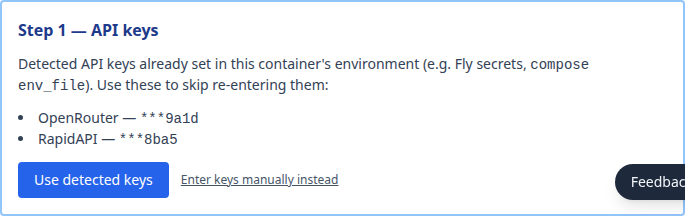
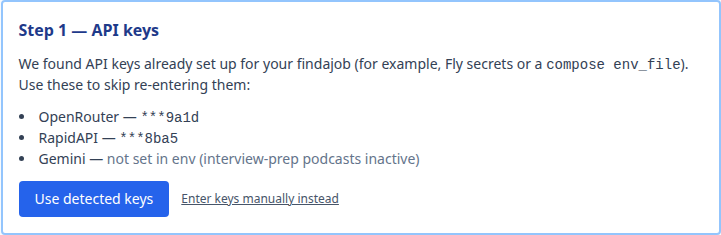
docs(v2 P5.1): regenerate Fly onboarding screenshots + add /stats usage guide (#887)
Regenerate every findajob-app onboarding screenshot in start-here-fly.md and
install-fly.md against the live UI, and correct the prose to match:

- document the new Confirm-your-timezone step (#993) and the Gemini API-key
  option, both added after the originals were shot
- "Captured N of 10 required blocks" counter replaces the stale "progress bar /
  5 of 10 blocks emitted" framing; API-keys humanized copy; blue (not green) button
- post-Finalize chain (timezone -> spend-ceiling -> Gmail -> connections) and the
  "You're set up. Your first triage hasn't run yet." first-run banner now accurate
- interview-resume caption corrected: answers save as you go and reloading
  resumes; there is no "Resume your interview" index button
- README hero caption matches the regenerated demo board; one-click-prep claim
  reflects the #691 briefing-first gate; reject-reason examples use shipped defaults
- prune two unreferenced Fly screenshots (09-settings-github-connect, 10-settings-full)
  and wire the sign-in shot into the flow

Add docs/usage/stats.md ("Reading the Stats pages") documenting all seven /stats
dashboards with screenshots, wired into docs._PAGES (slug usage/stats) and the
container smoke slug-loop, cross-linked from tuning.md and usage.md.

This covers the findajob-app half of #916. The Fly.io-platform screenshots
(Fly's own dashboard, install-fly-web/) need an authed Fly session this change
can't drive, so #916 stays open for that separate operator-driven pass.

Closes #887

diff --git a/src/findajob/web/routes/docs.py b/src/findajob/web/routes/docs.py
@@ -24,6 +24,7 @@ _PAGES: dict[str, str] = {
     # Daily use
     "usage": "usage.md",
     "usage/expanding-sources": "usage/expanding-sources.md",
+    "usage/stats": "usage/stats.md",
     "tuning": "tuning.md",
     "troubleshooting": "troubleshooting.md",
     "updating": "updating.md",

diff --git a/CHANGELOG.md b/CHANGELOG.md
@@ -12,6 +12,7 @@ changes may land in minor version bumps; patch releases are bugfix-only.
 
 ### Added
 
+- **Stats-pages usage guide** (#887): a new `docs/usage/stats.md` ("Reading the Stats pages") gives a screenshot tour of all seven `/stats/` dashboards — Funnel, Feedback, Scoring, Rejections, Throughput, Effectiveness, Recall Audit — covering what each page shows, the transitions-vs-snapshots and small-sample-`—` conventions, and the three distinct rejection cuts (Feedback = your rejections, Rejections = all-time incl. company "Not Selected", Effectiveness = a "Not Selected" counts as a response). Wired into the `/docs/` index under Usage (slug `usage/stats`, breadcrumbs free via the `usage/` prefix), added to the container smoke slug-loop, and cross-linked from `tuning.md` (the *acting* lens, which keeps its tuning-action notes) and `usage.md`'s daily loop. Docs-only; no schema change.
 - **Config-driven denylist for the critique recurring-themes surface** (#995): the recurring-themes section of the critique aggregator report (`scripts/critique_review.py`) counts which unanchored critique words recur across the most companies — but the recruiter critic's own *artifact-frame* vocabulary (the words it uses to name the document it critiques: `cover`, `letter`, `resume`, `opener`, `quote`, `summary`, `bullet`) recurs across *more* companies than the genuinely useful themes (`hearsay`, `unverifiable`, `connective`), so the corpus-scaled frequency floor (#932/#951) structurally can't separate signal from noise — raising the floor drops signal before noise, lowering it floods with more. A new gitignored `config/critique_theme_stopwords.yaml` denylist (edited via `/config/`, hot-reloaded on the next run) drops those words from the surface. It *unions* onto a non-empty field-neutral default of the seven artifact-frame words above — unlike the *replace* semantics of `title_signal_keywords.yaml` — so the surface is cleaner out of the box and an operator who adds their own corpus-specific noise words (e.g. role words like `director` / `former` that are noise on one corpus but could be signal on another) never silently loses the universal filters and reintroduces the noise. The frequency floor is unchanged and still does its job; this is the orthogonal vocabulary filter it structurally couldn't provide. **No `migration-required`** — optional config with a working code default; no schema or mandatory config change.
 - **Persistent feed-URL 404 health-check** (#983): the daily health-check ntfy now flags ATS feed-URL slugs that 404'd during the last triage — a stale Greenhouse / Lever / Ashby slug (e.g. a company that took down its careers board) that the source-level "silent feed failure" check can't see, because the source keeps producing jobs from its *other* slugs while that one company silently drops out of the funnel. It reads the `*_fetch_skip` outcomes triage already logged to `pipeline.jsonl` (deduped by `ats/slug`, capped to the first five named with the true total in the count) rather than re-probing live — detection over time, no extra network calls — complementing the live-probe of the onboarding (#984) and Verify-button (#985) paths. Flag-only by design: auto-correcting a slug would risk writing a *different* dead slug into operator config, worse than an honest 404 — fix the named slug in `config/feed_urls.txt` via `/config/` and re-confirm at `/settings/feed-urls/`. Surfaced via #856. No schema change.
 - **In-app "update available" banner** (#1016): the dashboard now shows a dismissible banner when a newer findajob release exists on GitHub — `vX → vY`, a CHANGELOG "what's new" link, and a per-substrate update hint (Fly → redeploy from the dashboard; Docker → `docker compose pull && up -d`, or Watchtower if you run it). The check compares the running CHANGELOG version against GitHub's `releases/latest` (anonymous, tuple-compared), caches in-memory ~daily, refreshes after the response so it never blocks page render, and fails open (no banner if the check can't resolve). Dismissal is version-keyed, so the next release re-surfaces it. No new env var; no schema change.
@@ -23,6 +24,7 @@ changes may land in minor version bumps; patch releases are bugfix-only.
 ### Changed
 
 - **Docker runtime install migrated to a `uv sync` builder stage** (#997): the image build switched from a throwaway `deps` stage (`uv export --locked --no-dev --no-emit-project` → a hashed `requirements.txt`, then a runtime `pip install --require-hashes --break-system-packages` + `pip install -e . --no-deps`) to a `uv sync --locked --no-dev` builder stage that produces a self-contained `/app/.venv`, `COPY`ed into the runtime image with `/app/.venv/bin` fronted on `PATH`. `pip` and `--break-system-packages` are gone from the runtime stage; `uv` stays builder-only. findajob remains **editable** (uv.lock marks it `editable`) and the runtime keeps `COPY src/ /app/src/` — `src/findajob` ships load-bearing non-Python package data (web templates, `.sql` migrations, static assets, the staging persona fixture) with no `package-data`/`MANIFEST.in`, so a non-editable wheel would silently drop them and 500 uvicorn. Hash integrity is preserved: `uv sync --locked` verifies every distribution against uv.lock's per-package sha256 (the lockfile is now the hash source the exported `requirements.txt` used to be) and fails the build on lock/pyproject drift. `UV_PYTHON_DOWNLOADS=0` plus an identical `python:3.12-slim-bookworm` base in both stages keeps the COPYed venv's interpreter home valid, and the builder stays a bare `FROM` (not `--platform=$BUILDPLATFORM`) so the multi-arch `linux/arm64` leg installs target-arch wheels. The bare `python3` that the entrypoint and supercronic cron commands run resolves to the venv interpreter via the image `PATH` (gosu and supercronic both inherit it). Out-of-container `fly ssh console "python …"` invocations — the deploy auth-gate verifiers in `ops/fly-deploy.sh` and the CI auto-deploy `ops/ci-fly-deploy.sh` (#914), plus their doc copies (install/update/operations) — now call the venv interpreter by absolute path `/app/.venv/bin/python`, since a `fly ssh` session may not inherit the image `PATH` the way `docker exec` does; `docker compose exec … python` stays bare (docker exec inherits the image env). Follow-up to #978 (which added the `[build-system]` this builds on). **No `migration-required`** — same image, same runtime contract (bare `python3` → findajob, `JSP_BASE=/app`, `EXPOSE 8090`, entrypoint, CMD all unchanged); operators just `docker compose pull` / redeploy.
+- **Fly onboarding docs + screenshots refreshed to current UI** (#916): regenerated every findajob-app screenshot in `start-here-fly.md` / `install-fly.md` against the live onboarding flow and corrected the prose to match. The walkthroughs now document the **Confirm-your-timezone** step (#993) and the **Gemini** API-key option that both landed after the originals were shot; the API-keys screen's humanized copy and the *"Captured N of 10 required blocks"* counter replace the old "progress bar / 5 of 10 blocks emitted" framing; the post-Finalize chain (timezone → spend-ceiling → Gmail → connections) and the *"You're set up. Your first triage hasn't run yet."* first-run banner are now accurate. The README hero caption matches the regenerated demo board, the one-click-prep claim reflects the #691 briefing-first gate (flag → briefing, then a second pass for resume/cover/outreach), and the reject-reason examples use the shipped default vocabulary. Two unreferenced Fly-dashboard screenshots (`09-settings-github-connect`, `10-settings-full`) were pruned and the sign-in shot wired into the flow. Docs-only. (The Fly.io-*platform* screenshots — Fly's own dashboard — are pending separate operator verification; they require an authed Fly session this change couldn't drive.)
 - **PII-scan CI is now active** (#1039): the `PII_PATTERNS_REGEX` repository secret is populated from the local pre-commit `PATTERNS` array, so `.github/workflows/pii-scan.yml` scans each PR diff against the pattern list instead of logging "secret not set" and passing — until now the per-clone local hook was the only active guard. `docs/operations/config-reference.md` (Pre-commit PII hook → CI-side defense) now documents that an operator may keep additional private patterns — kept operator-side and intentionally **not** enumerated in tracked docs, mirroring the `<operator-domain>` / `<deployment-host>` placeholder convention — in **both** the local `PATTERNS` array and the secret, so they're caught per-clone *and* in CI. **No `migration-required`** — repository secret + docs only; no schema or runtime change.
 - **Feed-URL probe no longer downloads the response body** (#1025): the shared `findajob.fetchers.feed_probe` helper classifies a Greenhouse / Ashby / Lever board as live / dead / unreachable from the HTTP status code alone, but it was downloading the full response body to read that code — and Greenhouse's boards endpoint ends in `?content=true`, so each probe pulled every open req's full HTML just to look at a status. The probe now passes `stream=True` to `requests.get` and closes the response after reading `status_code`, so the body is never fetched — less bandwidth, and one fewer way for a large healthy board to drift past the 8s per-feed timeout into a false `unreachable`. Behavior is identical: the live / dead / unreachable / unsupported classification, the plain-language reasons, and the `company_name_ok` flag are unchanged, and the full `tests/test_feed_probe.py` suite still passes (with a new test pinning that the body is never read). Benefits every caller of the helper — onboarding feed-validation (#984) and the Verify-feed-URLs button (#985). **No `migration-required`** — internal performance change; no schema, config, or behavior change.
 - **Normalized Anthropic model-ID slugs to OpenRouter's canonical dot-form across role configs** (#1037): the `model:` lines in `config/roles/*.md` were written three ways — OpenRouter's dot-form (`claude-sonnet-4.6`), the dash-form (`claude-sonnet-4-6`), and (in the six `loose_ends_*` roles) the dash-form with no `openrouter:` prefix at all. All ten divergent roles are now on the canonical `openrouter:anthropic/claude-<x>.<y>` form, matching the `config/model_pricing.yaml` keys and the CLAUDE.md per-role table (both already dot-form). No behavior change: findajob routes exclusively through OpenRouter, which aliases the dash-form to the dot-form, and `findajob.llm.openrouter.complete()` strips the `openrouter:` prefix before the request — so every prior form already resolved to the same billed call (confirmed in production `cost_log`, which shows both forms succeeding). The cleanup closes a latent cost-attribution seam: `cost_log.model` stores the slug as configured (dash, for those roles) while `model_pricing.yaml` keys on the dot-form, so a future lookup joining the two on the model string would silently miss for the dash-form roles. One hardcoded dash-form slug outside the role configs (`onboarding/interview_runner.py`'s `INTERVIEW_MODEL`) was out of scope here; it turned out to be dead code and is removed in #1040 (see Removed) rather than normalized. **No `migration-required`** — string normalization only; no schema, config-key, or runtime change.

diff --git a/docs/getting-started/start-here-fly.md b/docs/getting-started/start-here-fly.md
@@ -167,11 +167,11 @@ After signing in, the dashboard immediately redirects to `/onboarding/` because 
 
 ### Step 9. Confirm your API keys *(1 min)*
 
-The first onboarding screen detects the API keys you set in Step 6 and shows the last 4 characters of each as confirmation.
+The first onboarding screen detects the API keys you set in Step 6 and lists the last 4 characters of each as confirmation.
 
-![Step 1 of onboarding: detected OpenRouter and RapidAPI keys with last-4 confirmation and a Use detected keys button](install-fly/07-step1-api-keys.png)
+![Step 1 of onboarding: detected API keys (OpenRouter, RapidAPI, Gemini) with last-4 confirmation and a Use detected keys button](install-fly/07-step1-api-keys.png)
 
-**What you should see:** "Detected: OpenRouter key ending …xxxx, RapidAPI key ending …xxxx" with a green **Use detected keys** button.
+**What you should see:** a *"We found API keys already set up for your findajob"* heading with a bulleted list — `OpenRouter — ***xxxx`, `RapidAPI — ***xxxx`, and `Gemini — not set in env` (Google AI is optional; it only powers interview-prep podcasts, so leaving it unset is fine) — and a blue **Use detected keys** button.
 
 Click **Use detected keys** to advance.
 
@@ -185,27 +185,37 @@ This is the longest step by far — and the one where findajob learns who you ar
 2. The AI asks structured questions about your work history, target companies, skills, and preferences. **Answer as completely as you reasonably can** — more context here means better job matching later.
 3. When the interviewer asks for your resume, **paste it directly into the chat** (Word/PDF/plain text — copy from the source document, paste in).
 
-**Plan to sit through it in one session.** If you have to step away, you can close the tab and the `Resume your interview` button on the index page brings you back exactly where you left off:
+**Plan to sit through it in one session.** If you have to step away, you can close the tab — your answers are saved as you go, and reloading the interview page brings you back where you left off:
 
-![Resume the in-progress interview from where you left off](install-fly/01-interview-resume-prompt.png)
+![The interview saves your answers as you go — reload the page to resume where you left off](install-fly/01-interview-resume-prompt.png)
 
-As the interview progresses, a progress bar tracks the config blocks emitted so far:
+As the interview progresses, a counter chip near the top — *"Captured N of 10 required blocks"* — tracks how many of the required config blocks have been captured (most are written in a batch when the interview wraps up):
 
-![Halfway through the interview, 5 of 10 blocks emitted](install-fly/02-interview-progress-half.png)
+![findajob captures your answers into config files as the interview wraps up](install-fly/02-interview-progress-half.png)
 
-When all blocks are complete, a green **Finalize** button appears at the bottom of the chat:
+When all required blocks are captured, the chip turns green (*"All blocks captured — ready to finalize"*) and a green **Finalize** button appears at the bottom of the chat:
 
-![All groups emitted, Finalize button now visible](install-fly/03-interview-ready-to-finalize.png)
+![All required blocks captured — the green Finalize button appears](install-fly/03-interview-ready-to-finalize.png)
 
 Click **Finalize**. findajob writes your config files to disk and kicks off a one-time "company discovery" LLM run that drafts your initial target-company list.
 
-![Finalize click writes files and triggers initial company discovery](install-fly/04-interview-all-groups-emitted.png)
+![The Finalize box — click Finalize to write your config and run first-time company discovery](install-fly/04-interview-all-groups-emitted.png)
 
-**What you should see:** the page moves on to the spend-ceiling gate (next step).
+**What you should see:** the page moves on to confirm your timezone (next step), then the spend-ceiling gate. *(If any of your job-feed URLs look broken, a quick feed-check step appears first so you can fix them.)*
 
 **If something went wrong:** if the chat seems stuck (no LLM response for 30+ seconds), check `https://openrouter.ai/credits` — your balance may have run out. Top up and refresh the page; the conversation persists server-side.
 
-### Step 11. Set a monthly spend ceiling *(1 min, recommended)*
+### Step 11. Confirm your timezone *(30 sec)*
+
+findajob detects your timezone from your browser and asks you to confirm it. This drives when your daily triage runs and how times are shown on your board.
+
+![Confirm your timezone — browser-detected, changeable anytime at /settings/timezone/](install-fly/04b-timezone-confirm.png)
+
+**What you should see:** a **Confirm your timezone** screen with your browser's timezone pre-filled (e.g. `America/Los_Angeles`). Pick another from the dropdown if it's wrong, then click **Confirm and continue**. You can change it later at `/settings/timezone/`.
+
+> The timezone takes effect on the next app restart. After onboarding, the dashboard shows a **"Restart to apply your timezone"** banner until you restart (or until your next update applies it).
+
+### Step 12. Set a monthly spend ceiling *(1 min, recommended)*
 
 This is the single biggest cost-anxiety defuse in findajob — a hard cap on your monthly LLM spend.
 
@@ -217,7 +227,7 @@ This is the single biggest cost-anxiety defuse in findajob — a hard cap on you
 
 **If something went wrong:** if you skipped this and want to set one later, visit `/settings/spend-ceiling/` in your web UI any time.
 
-### Step 12. (Optional) Configure Gmail integration *(3 min)*
+### Step 13. (Optional) Configure Gmail integration *(3 min)*
 
 findajob can read your Gmail inbox to ingest LinkedIn / Indeed job-alert emails AND auto-detect ATS rejection emails.
 
@@ -225,11 +235,11 @@ findajob can read your Gmail inbox to ingest LinkedIn / Indeed job-alert emails 
 
 To wire it up: see [`gmail.md`](gmail.md) for the 2FA + Gmail app-password procedure. Paste the credentials into this form, click **Test connection**, and **Save**.
 
-**To skip:** click **Skip Gmail setup**. You can configure it later at `/config/gmail/`.
+**To skip:** click **Skip for now**. You can configure it later at `/config/gmail/`.
 
 **What you should see:** the page advances to the LinkedIn connections step.
 
-### Step 13. (Optional) Upload your LinkedIn Connections.csv *(2 min)*
+### Step 14. (Optional) Upload your LinkedIn Connections.csv *(2 min)*
 
 findajob uses your LinkedIn network to find people at companies that posted jobs you're applying to, and drafts outreach to them.
 
@@ -238,7 +248,7 @@ findajob uses your LinkedIn network to find people at companies that posted jobs
 1. In LinkedIn (on the web): **Settings → Data privacy → Get a copy of your data → Connections**. The CSV downloads after a few minutes.
 2. On this onboarding step, click **Choose file** and select the downloaded `Connections.csv`.
 
-**To skip:** click **Skip**. You can upload it later at `/onboarding/connections/`.
+**To skip:** click **Skip for now**. You can upload it later at `/settings/connections/`.
 
 **What you should see:** the page advances to the dashboard.
 
@@ -248,11 +258,11 @@ findajob uses your LinkedIn network to find people at companies that posted jobs
 
 ## Part D — Your first triage (5–60 minutes)
 
-### Step 14. Trigger your first triage *(5–60 min, mostly waiting)*
+### Step 15. Trigger your first triage *(5–60 min, mostly waiting)*
 
 You're now on the dashboard. The job table is empty — no jobs have been triaged yet.
 
-**What you should see:** a blue banner above the (empty) job table with text like *"Your first triage hasn't run yet — next scheduled run is at 00:00 (your timezone)"* and a prominent **Trigger triage now** button below it.
+**What you should see:** a banner above the (empty) job table — *"You're set up. Your first triage hasn't run yet."* — with a prominent **Trigger triage now** button.
 
 Click **Trigger triage now** to start the pipeline immediately instead of waiting until midnight.
 
@@ -268,7 +278,7 @@ Refresh `/board/` to see progress.
 
 **If something went wrong:** if the dashboard still shows empty after 60+ minutes, check your app's **Logs & Errors** tab in the Fly dashboard to see what the pipeline is doing.
 
-### Step 15. See your first scored jobs
+### Step 16. See your first scored jobs
 
 ![Dashboard after onboarding — daily job feed begins populating overnight](install-fly/06-dashboard-post-onboarding.png)
 
@@ -285,7 +295,7 @@ Each row is a job that scored above your threshold. Click into one to see:
 
 From here, your daily workflow is the **Dashboard tab** in your web UI:
 
-- Every morning at 00:00 (your timezone), findajob runs triage automatically. Your dashboard refreshes overnight with new jobs.
+- Every night around midnight in your timezone, findajob runs triage automatically. Your dashboard refreshes overnight with new jobs.
 - Click **Flag for prep** on the ones worth a deeper look. That triggers materials generation in the background; you'll see them in the **Materials tab** when ready (~5 min, ~$1 per prep).
 - Tag rejections with a reason as you go. Those tags train tomorrow's scorer.
 

diff --git a/docs/getting-started/install-fly.md b/docs/getting-started/install-fly.md
@@ -38,6 +38,8 @@ Have these ready (you'll enter them after the initial deploy):
 
 Go to <https://fly.io/app/sign-in> and sign in with the account you created. You'll land on your Fly dashboard.
 
+![Fly.io sign-in — GitHub, Google, or email](install-fly-web/02-sign-in.png)
+
 ## 2. Launch the app
 
 Click the purple **Launch an App** button at the top of your dashboard.
@@ -100,23 +102,31 @@ The onboarding flow is a structured 60–90 minute LLM conversation that writes 
 
 **Step 0 — Set your password** (if you didn't set `FINDAJOB_AUTH_USER` / `FINDAJOB_AUTH_PASS` as Fly secrets). The form asks for a one-time setup token from your container logs (drive-by squat defense — paste the value of `FINDAJOB_SETUP_TOKEN` from `fly logs --app findajob-<your-handle>`), then a username and password (at least 8 characters). After saving, your browser will prompt you to log in with those credentials. This step is skipped if auth credentials are already in the environment.
 
-**Step 1 — API keys.** The onboarding screen detects the `OPENROUTER_API_KEY` and `RAPIDAPI_KEY` you set as secrets (read from the container's environment). It shows the last 4 characters of each as confirmation and a **Use detected keys** button. Click it to advance to Step 2 without re-typing.
+**Step 1 — API keys.** The onboarding screen detects the API keys already set in the container's environment (your Fly secrets) under a *"We found API keys already set up for your findajob"* heading. It lists the last 4 characters of each as confirmation — `OPENROUTER_API_KEY`, `RAPIDAPI_KEY`, and `GEMINI_API_KEY` (Google AI, optional — used only for interview-prep podcasts; "not set in env" is fine to leave) — with a **Use detected keys** button. Click it to advance to Step 2 without re-typing.
 
-**Step 2 — Run the interview.** Click "Start interview." A chat surface opens. The interviewer asks structured questions about your work history, target companies, skills, and preferences, emitting config blocks as you go. You can close the tab anytime — the session is server-side persistent:
+![Step 1 detects your API keys and shows the last 4 characters of each](install-fly/07-step1-api-keys.png)
 
-![Resume the in-progress interview from where you left off](install-fly/01-interview-resume-prompt.png)
+**Step 2 — Run the interview.** Click "Start interview." A chat surface opens. The interview runs in five phases, asking structured questions about your work history, target companies, skills, and preferences, and capturing your answers into config blocks as you go. You can close the tab anytime — the session is server-side persistent:
 
-As the interview progresses, a progress bar tracks the config blocks emitted so far:
+![The interview saves your answers as you go — reload the page to resume where you left off](install-fly/01-interview-resume-prompt.png)
 
-![Halfway through the interview, 5 of 10 blocks emitted](install-fly/02-interview-progress-half.png)
+A counter chip near the top — *"Captured N of 10 required blocks"* — tracks how many of the required config blocks have been captured. Most are written in a batch when the interview wraps up and emits your config files:
 
-When all blocks are complete, a green "Finalize" button appears:
+![findajob captures your answers into config files as the interview wraps up](install-fly/02-interview-progress-half.png)
 
-![All groups emitted, Finalize button now visible](install-fly/03-interview-ready-to-finalize.png)
+When all required blocks are captured, the chip turns green (*"All blocks captured — ready to finalize"*) and a green **Finalize** button appears:
 
-![Finalize click writes files and triggers initial company discovery](install-fly/04-interview-all-groups-emitted.png)
+![All required blocks captured — the green Finalize button appears](install-fly/03-interview-ready-to-finalize.png)
 
-Clicking Finalize writes your config files to the volume and kicks off initial company discovery (a one-time LLM run that drafts a `discovered_companies.md` list). Then findajob hands off to the Gmail-config gate.
+![The Finalize box — click Finalize to write your config and run first-time company discovery](install-fly/04-interview-all-groups-emitted.png)
+
+Clicking Finalize writes your config files to the volume and kicks off initial company discovery (a one-time LLM run that drafts a `discovered_companies.md` list). findajob then walks you through a few quick setup gates before the dashboard:
+
+**Confirm your timezone.** findajob detects your timezone from your browser and asks you to confirm it (or pick another). This drives when daily triage runs and how times appear on your board. You can change it later at `/settings/timezone/`.
+
+![Confirm your timezone — browser-detected, changeable anytime at /settings/timezone/](install-fly/04b-timezone-confirm.png)
+
+**Set a monthly spend ceiling.** Tell findajob how many applications you plan to submit per week and it recommends a monthly LLM cap — accept it, enter your own, or "Skip for now" to leave spend uncapped. Adjustable later at `/settings/spend-ceiling/` (see [Cost](#cost)). *(If any of your job-feed URLs look broken, a feed-check step appears before this one so you can fix them first.)*
 
 **Gmail-config gate (optional).** Configure IMAP credentials so findajob can ingest LinkedIn / Indeed / etc. job-alert emails directly, and auto-detect ATS rejection emails. Save and "Test connection" to advance, or Skip:
 
@@ -132,13 +142,11 @@ See [`gmail.md`](gmail.md) for the 2FA + app-password procedure. Gmail integrati
 
 ## 6. Verify and wait for first triage
 
-After onboarding lands you on the dashboard, the feed is empty — no jobs have been triaged yet. By default, triage runs at **midnight America/New_York** (the timezone set by the `fly.toml` `[env].TZ` value).
+After onboarding lands you on the dashboard, the feed is empty — no jobs have been triaged yet. Daily triage runs at **midnight in the timezone you confirmed during onboarding**.
 
-After you complete onboarding, the timezone you gave drives this instead: it's
-saved and applied on your next app restart (restart from the Fly dashboard to
-apply it immediately). The `[env].TZ` value is just the default until then.
+Because the container reads its timezone at startup, a **"Restart to apply your timezone"** banner appears on the dashboard until you restart the app (it also applies automatically on your next update). Restart from the Fly dashboard to apply it immediately; until then, scheduling falls back to the `fly.toml` `[env].TZ` default.
 
-**The dashboard tells you what to do.** A blue banner above the (empty) job table shows when the next scheduled triage will fire and includes a **Trigger triage now** button. Click it to start the pipeline immediately rather than wait for the cron cycle.
+**The dashboard tells you what to do.** A banner above the (empty) job table — *"You're set up. Your first triage hasn't run yet."* — includes a **Trigger triage now** button. Click it to start the pipeline immediately rather than wait for the nightly run.
 
 **Plan for 5–60 minutes** on the first run — the wide range depends on how many target companies you named in the onboarding interview (more companies → more Greenhouse / Ashby feeds to walk → more jobs to score). Smaller named lists finish in 5–15 minutes. Subsequent daily runs are delta-only and complete in 1–5 minutes.
 

diff --git a/docs/usage/stats.md b/docs/usage/stats.md
@@ -1,0 +1,56 @@
+# Reading the Stats pages
+
+The **Stats** tab (top nav → **Stats**, or `/stats/`) is where findajob shows you how your search is actually going — how jobs flow through the pipeline, which rejection reasons keep recurring, and whether your applications are landing responses. Every page reads your database live at request time, so the numbers are always current; there's no refresh lag and nothing cached.
+
+`/stats/` opens on **Funnel**; a sub-nav across the top switches between the seven pages.
+
+## Before you trust a number
+
+A few things apply across every page:
+
+- **Transitions, not snapshots.** Funnel and Throughput count how many times a job *moved into* a stage — not how many sit there right now. A job that went applied → interview → offer counts once under each; a job you re-applied to counts twice under "applied."
+- **Small samples show `—`.** Every percentage carries a 95% confidence interval, and findajob hides the number entirely (shows `—`) until the sample is large enough to mean something. Expect a lot of `—` early in a search — that's honesty, not a bug.
+- **Config-change markers.** On Funnel, Feedback, and Throughput, red dashed vertical lines mark the days you changed your config. Click one for a before/after popover, so you can see whether an edit actually moved the numbers.
+- **Three different rejection cuts — don't conflate them.** *Feedback* counts only the rejections you logged (the signal that tunes scoring). *Rejections* counts everything, including company "Not Selected" emails, all-time, broken out by company. *Effectiveness* treats a "Not Selected" as a *response* (the company got back to you).
+
+## Funnel — `/stats/funnel`
+
+The 30-day view of your whole pipeline: how many jobs moved into each stage (scored → manual review → prep → materials drafted → applied → interview → offer), plus the three exits (rejected, not selected, waitlisted). Stage-to-stage **conversion rates** sit below the totals, each with a confidence interval, and a red-bordered **rejection rate** card shows how much of what you scored you ended up rejecting.
+
+![The Funnel page: 30-day stage totals and conversion rates with confidence intervals](stats/funnel.png)
+
+## Feedback — `/stats/feedback`
+
+A 28-day trend of **your own** rejection reasons — the ones you tag as you clear your board — with a "this week" summary on top. These are exactly the signal that tunes tomorrow's scoring, so this page tells you what the scorer is learning from. Company-side "Not Selected" events are deliberately excluded here; see **Rejections** for those.
+
+## Scoring — `/stats/scoring`
+
+Histograms of the four scores the pipeline writes onto each job: **relevance** and **interview likelihood** (1–10, written on every scored job) and **fit** and **probability** (0–100, written only when you prep a job, so they stay sparse for typical activity). The relevance histogram is the one to watch — a healthy search has most jobs clustered low (correctly filtered out) with a meaningful bump at the high end (your real matches). A per-source breakdown below shows whether one job source is dragging your relevance down.
+
+![The Scoring page: the relevance-score histogram over the last 30 days](stats/scoring.png)
+
+## Rejections — `/stats/rejections`
+
+The all-time, by-company complement to Feedback. It counts **every** rejection — yours *and* company "Not Selected" archives — broken down by reason and by the companies where rejections concentrate. Use it to spot a company (or a reason) that's quietly eating a lot of your effort over the months.
+
+## Throughput — `/stats/throughput`
+
+Per-week counts of applications, interviews, and offers, stacked, all-time. Where Funnel is a 30-day daily window, this is the multi-month rhythm view: are you applying steadily, and is interview/offer volume keeping pace?
+
+## Effectiveness — `/stats/effectiveness`
+
+The outcome page: of the applications you submitted, how many got a **response** (an interview, an offer, or an explicit rejection), how many went dark (**ghosted** — no response after 21 days), how fast responses came back, and your interview rate broken out by source. Most of this gates to `—` until you have roughly 20 applications in, so it fills in as your search matures.
+
+![The Effectiveness page: outcome summary, response rate, and interview-rate-by-source](stats/effectiveness.png)
+
+## Recall Audit — `/stats/recall-audit`
+
+Every Sunday, findajob re-scores a sample of jobs it had hard-rejected or scored low, to catch good ones it might have dropped. An "upgrade" is a job the re-score rated higher than the original. An upgrade rate above 10% is a sign the scorer is too aggressive — findajob alerts you when that happens. This page is empty until the first Sunday audit runs.
+
+## When a number tells you to act
+
+The stats pages tell you *what's* happening; [`tuning.md`](../tuning.md) tells you *what to change*:
+
+- Recurring rejection reasons (Feedback) → tighten your prefilter rules or sharpen your profile.
+- A low interview rate from one source (Effectiveness) → adjust your source mix.
+- A high recall-audit upgrade rate → loosen the scorer's threshold or revisit its prompt.

diff --git a/README.md b/README.md
@@ -8,7 +8,7 @@ Built and operated daily; pre-1.0 means active development.
 
 ![Dashboard](docs/screenshots/dashboard.png)
 
-*Fictional demo data spanning data-center ops, social services, and K-12 education — the same pipeline works for every field, only your candidate profile changes.*
+*Fictional demo data — a cross-discipline candidate's program, operations, and customer-facing roles. The same pipeline works for every field; only your candidate profile changes.*
 
 [![Deploy to Fly.io](https://img.shields.io/badge/Deploy%20to%20Fly.io-8B5CF6?style=for-the-badge&logo=flydotio&logoColor=white)](docs/getting-started/start-here-fly.md)
 
@@ -19,8 +19,8 @@ Built and operated daily; pre-1.0 means active development.
 ## What it does
 
 - **Cuts the noise so you can focus.** Every morning it pulls hundreds of fresh listings, scores each one against your background, and surfaces only the handful worth your attention. Most job tools track what you applied to; this one finds the few worth applying to.
-- **Writes the application for you to finish.** One click produces a per-job folder: a tailored resume, a cover letter, a researched briefing on the company, and outreach drafts that name real contacts from your network.
-- **Learns from every rejection.** Each job that doesn't pan out gets tagged with a reason — *Skills Mismatch*, *Too Senior*, *Comp Too Low* — and those reasons train the next day's scoring. No other job tool closes that loop.
+- **Writes the application for you to finish.** Flag a job and findajob researches the company and drafts a briefing; approve it and a second pass produces the full package — a tailored resume, a cover letter, and outreach drafts that name real contacts from your network.
+- **Learns from every rejection.** Each job that doesn't pan out gets tagged with a reason — *Skills Mismatch*, *Geography*, *Compensation* — and those reasons train the next day's scoring. No other job tool closes that loop.
 - **Works for any field.** Built by a data-center-ops candidate, but it works just as well for a social worker, teacher, accountant, software engineer, or trades professional. Only your profile changes.
 
 Thirty days on the operator's own instance:

diff --git a/docs/usage.md b/docs/usage.md
@@ -18,6 +18,8 @@ A normal morning is five steps, usually under 30 minutes:
 
 Rejections come later — from the Applied tab when a company comes back "no", or from the Dashboard when you decide a listing isn't worth prepping. Each rejection has a reason, and reasons feed back into tomorrow's scoring.
 
+Every so often, check the **[Stats pages](usage/stats.md)** to see how the search is actually going — pipeline funnel, rejection trends, and whether your applications are landing responses.
+
 ---
 
 ## Job sources

diff --git a/docs/tuning.md b/docs/tuning.md
@@ -16,6 +16,8 @@ to adjust your pipeline configuration, and verify the adjustment worked.
 
 ## Stats pages at a glance
 
+> **New to the Stats tab?** [Reading the Stats pages](usage/stats.md) is a screenshot tour of what each page shows and how to read it. The notes below are the *tuning* lens — what to change when a number looks off.
+
 ### /stats/funnel
 
 **What it shows:** Daily stage-transition counts over the last 30 days,
